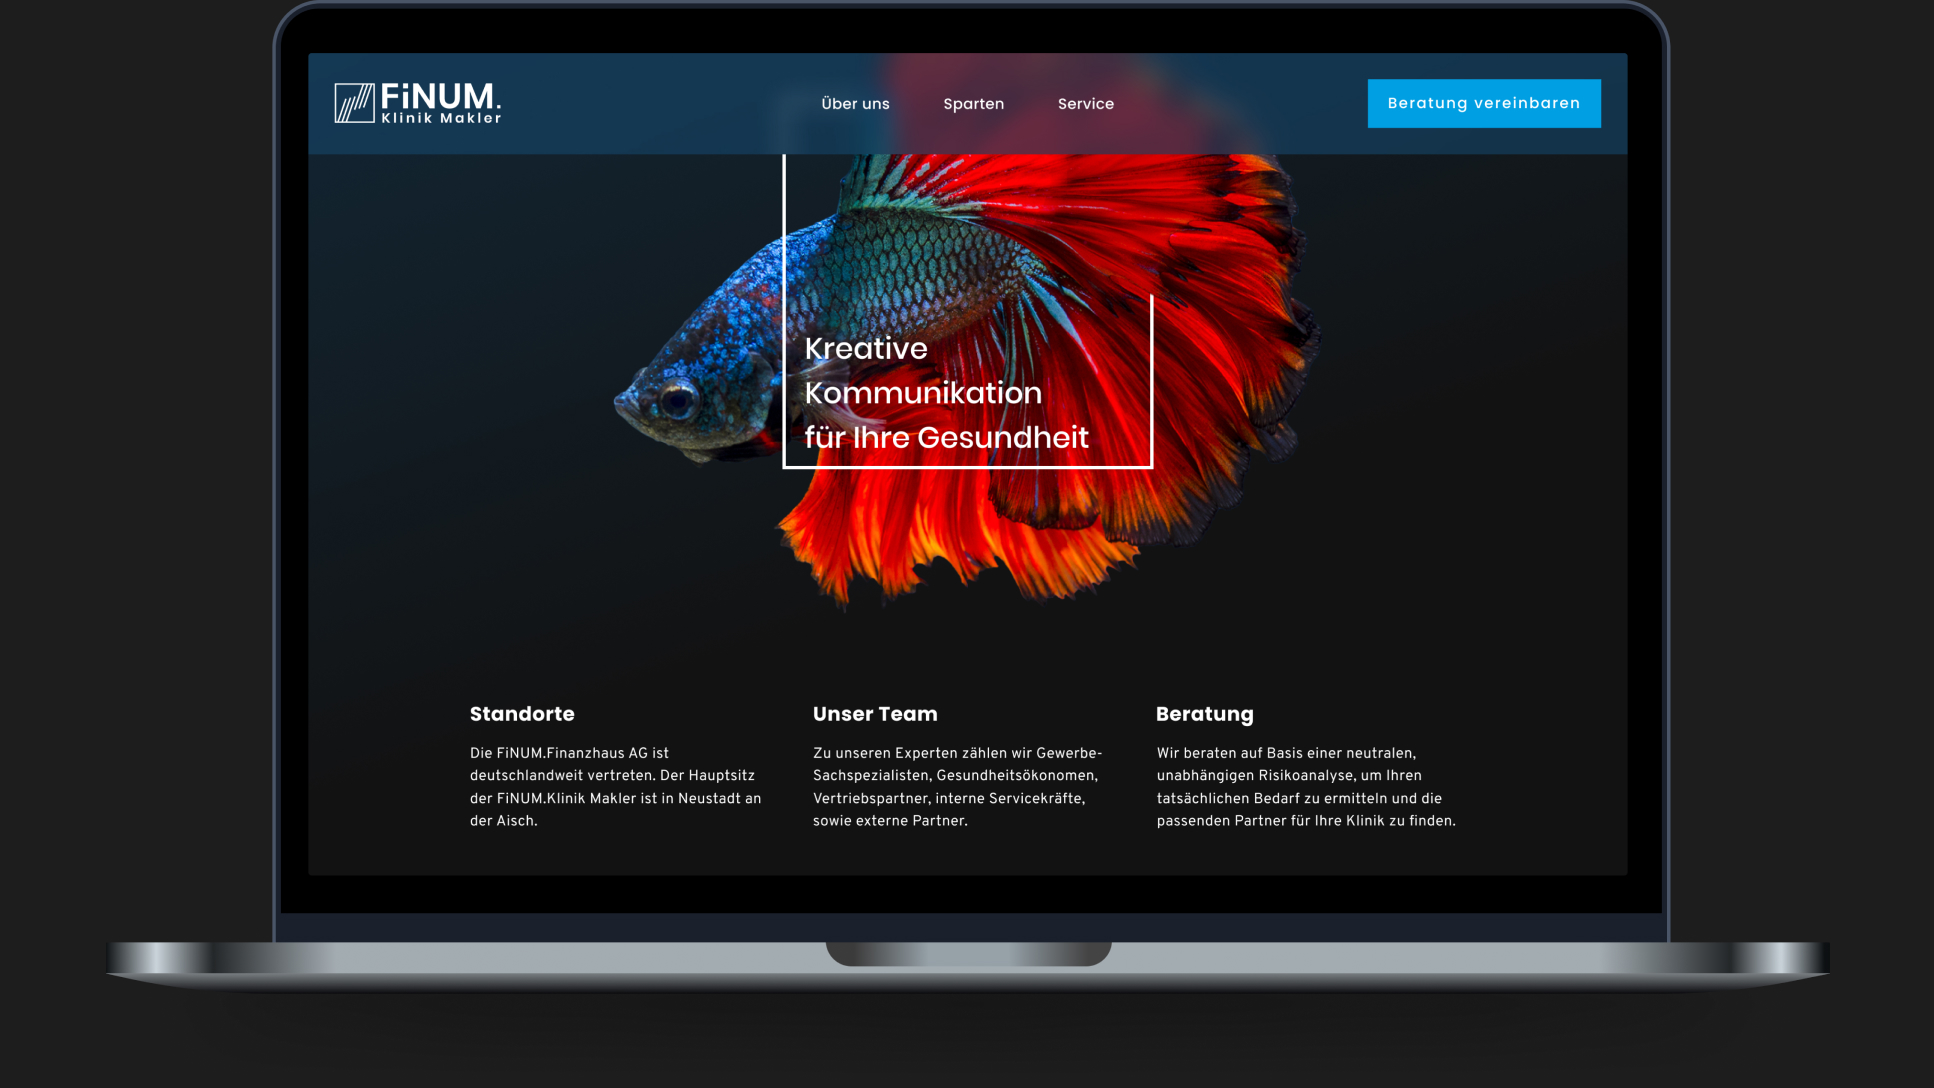
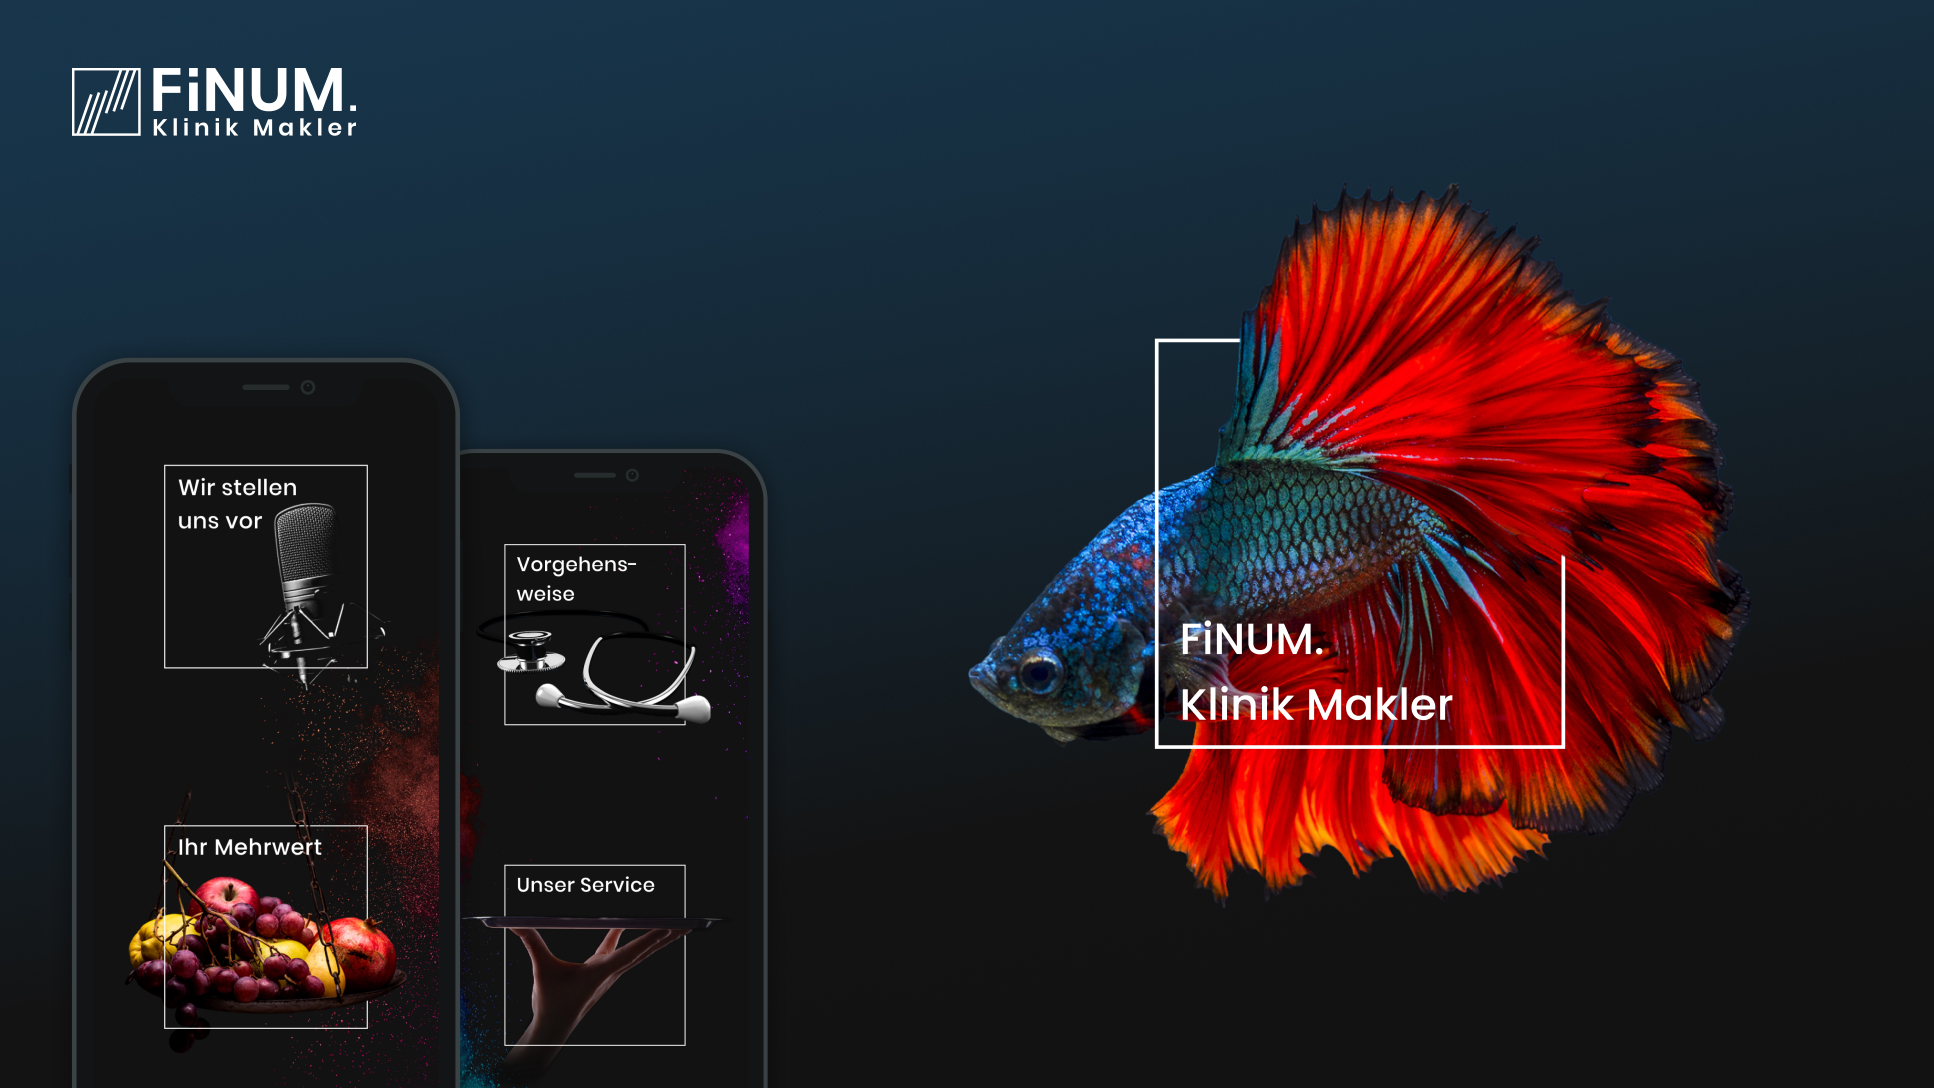
10.02.2021 Update

diff --git a/2about.html b/2about.html
@@ -7,40 +7,48 @@ permalink: /about/
 
 
 
-    <div class="post-thumbnail-container" style="margin-top: -120px;">
-        <img src="/assets/img/FotoKarstenKreh.png" class="post-thumbnail">
+    <div class="post-thumbnail-container">
+        <img src="/assets/img/FotoKarstenKreh.png" class="img-about">
     </div>
 
-    <h1 class="about-header">
-        Hi there,</h1>
-    <p>
-        my name is Karsten. <br>I am a UX-designer and communication design student from the beautiful city of Munich.
+    <h2>
+      Hi! My name is Karsten.
+    </h2>
+
+    <h1 class="about-header" style="margin-top: -2vw">
+        I love to create<br>
+        dope sh*t.
+    </h1>
+
+
+    <p class="post-content-text">
+        I am a UX-Designer and Communication Design student from the beautiful city of Munich in Germany.
+        <br>
+        <br>
+        As a very technically and scientifically interested designer, I help clients understand complex systems by visualizing large amounts of information.
+        <br>
+        I see my task in translating data into an everyday language and in making it beautiful so that it is easy to comprehend and fascinating to look at.
     </p>
 
 
-    <p>
-        As a very technically and scientifically interested designer, I help clients understand complex systems by visualizing large amounts of information. I see my task in translating data into an everyday language and in making it beautiful so that it is easy to comprehend and fascinating to look at.
-    </p>
-
-
-    <h2 class="post-content-text" style="margin-top: 22vw">
+    <h2 class="post-content-text" style="margin-bottom: 0">
         I'm especially good at:
     </h2>
 
     <p class="post-content-text">
-        - Web- & and Appdesign (UX/ UI in general)
-        <br>- Logodesign and Iconography
+            - Designing Complex Webapplications
         <br>- Dealing with large amounts of data
-        <br>- Applying a scientific method to my work
+        <br>- Logodesign and Iconography
+        <br>- Applying a very systematic and analytical approach
     </p>
 
 
-    <h2 class="post-content-text" style="margin-bottom: 0; margin-top: 0">
+    <h2 class="post-content-text" style="margin-bottom: 0">
         I work good with:
     </h2>
 
     <p class="post-content-text">
-        - IT- and Scienceguys
+            - Tech Companies
         <br>- FinTech and Financial Advisory
         <br>- Flexible and rapidly changing work environments
     </p>

diff --git a/_posts/2018-08-01-WechselGott.html b/_posts/2018-08-01-WechselGott.html
@@ -3,7 +3,7 @@ layout: post
 title: WechselGott
 slogan: Making contract management easier that ever bevore
 thumbnail: assets/img/IMG-Thumbnail-WechselGott.jpg
-img: assets/img/wechselgott-title-img.jpg
+img: assets/img/IMG-Title-WechselGott.jpg
 
 excerpt: <p class="excerpt-content">This German FinTech Start Up, has a special meaning for me, because I myself hold a stake in it. It was founded in Oktober 2018 by Werner Kräutlein, a friend of mine. Volksbank Mittweida and 2bAHEAD decided to fund WechselGott with venture capital. Since then it has grown rapidly.</p>
 ---
@@ -11,21 +11,15 @@ excerpt: <p class="excerpt-content">This German FinTech Start Up, has a special 
 
 <div class=".post-content">
 
-    <img class="post-content-img" src="/assets/img/WechselGott_Mockup_1.png">
-
     <p class="post-content-text">
         Let's be honest: We all hate to deal with our contracts and subscriptions. Insurance is a tiresome topic for most people and we put it off taking care of it for as long as possible - sometimes unfortunately too long. Many people are afraid of changing their electricity and gas provider, so they prefer to get their electricity from the basic provider for much higher prices. And we've all experienced it before, having missed the cancellation date for a subscription, so that we were allowed to pay for another year - for example, the gym subscription, which we've only used a solid five times anyway.
     </p>
-
-    <img class="post-content-img" src="/assets/img/WechselGott_Mockup_2.png">
 
     <p class="post-content-text">
         But all these tiresome issues can be handled completely automatically with today's technology.
         When WechselGott founder Werner Kräutlein told me about his idea for a fully automated contract manager, I was immediately hooked.
         WelchselGott was going to use artificial intelligence to recognize contracts from bank transactions and then automatically compare them and optimize them either at the touch of a button or using the autopilot function without any user intervention.
     </p>
-
-    <img class="post-content-img" src="/assets/img/WechselGott_Iconwork.png">
 
 </div>
 

diff --git a/_sass/style.scss b/_sass/style.scss
@@ -21,6 +21,8 @@ a {
     text-decoration: none;
 }
 
+
+
 .h0 {
   font-family: $primary-font;
   font-size: 10vw;
@@ -33,9 +35,10 @@ a {
 }
 
 
+
 h1 {
   font-family: $primary-font;
-  font-size: 5.8vw;
+  font-size: 5.5vw;
   font-weight: 800;
   font-stretch: normal;
   font-style: normal;
@@ -43,6 +46,7 @@ h1 {
   letter-spacing: normal;
   text-align: left;
 }
+
 
 
 h2 {
@@ -57,6 +61,7 @@ h2 {
 }
 
 
+
 h4 {
   font-family: $primary-font;
   font-size: 1.8vw;
@@ -67,6 +72,7 @@ h4 {
   letter-spacing: normal;
   text-align: left;
 }
+
 
 
 p {
@@ -88,6 +94,8 @@ body {
     color: $font-primary-color;
 }
 
+
+
 .wrapper {
     max-width: $wrapper-maxwidth;
     margin-right: auto;
@@ -95,12 +103,25 @@ body {
     }
 
 
+
 img {
-    width: calc(100% - 64px);
+    width: calc(100% - 8vw);
     border-radius: 8px;
     -webkit-filter: grayscale(100%);
     filter: grayscale(100%);
     transition: filter .4s ease-in-out;
+}
+
+
+
+.img-about{
+    max-width: 25vw;
+}
+
+
+
+.home-post-title {
+    margin-top: 2vw;
 }
 
 
@@ -158,7 +179,7 @@ ul {
 
 
     a {
-        font-size: 20px;
+        font-family: $primary-font;
         letter-spacing: 0.3em;
         height: 100%;
         align-items: center;
@@ -432,6 +453,7 @@ svg.svg-icon {
 
 
 .logo-img {
+    width: 6rem;
     max-width: 100%;
     border-radius: 0;
 }
@@ -489,10 +511,10 @@ svg.svg-icon {
 
 
 .p-name {
-  font-family: $secondary-font;
+  font-family: $primary-font;
   font-size: 1.8vw;
   margin-top: 256px;
-  font-weight: 200;
+  font-weight: 800;
 }
 
 
@@ -574,7 +596,7 @@ svg.svg-icon {
       transform: rotate(-90deg);
       position: absolute;
       margin: auto;
-      top: 21px;
+      top: 1.3vw;
       right: -9px;
       text-align: right;
       letter-spacing: 0.2em;

diff --git a/3contact.html b/3contact.html
@@ -13,7 +13,7 @@ permalink: /contact/
 
 
     <h2 style="padding-top: 80px">
-        Have got an interesting problem for me to solve? Let's have a cup of tea together.
+        Have got an interesting problem for me to solve? Let's have a cup of tea over it.
     </h2>
 
 
@@ -26,7 +26,7 @@ permalink: /contact/
 
             <fieldset class="user-valid valid contact-text-padding"   style= "margin: 100px 0 200px 0">
 
-                <h2  style= "margin-bottom: 0;">
+                <h2>
                     Your contact:
                 </h2>
 
@@ -43,7 +43,7 @@ permalink: /contact/
                 </label>
                 <br>
 
-                <h2  style= "margin-bottom: 0">
+                <h2  style= "margin-top: 6vw">
                     Your project:
                 </h2>
 

diff --git a/_posts/2021-02-01-Cometum.html b/_posts/2021-02-01-Cometum.html
@@ -2,8 +2,8 @@
 layout: post
 title: "Cometum"
 slogan: "Making the Illiquid Liquid"
-thumbnail: assets/img/IMG-Thumbnail-FiNUM.jpg
-img: assets/img/finum-km-title-img.jpg
+thumbnail: assets/img/IMG-Thumbnail-Cometum.jpg
+img: assets/img/IMG-Title-Cometum.jpg
 
 excerpt: <p class="excerpt-content">This is the qestion I was trying to solve during this Project</p>
 ---
@@ -13,6 +13,8 @@ excerpt: <p class="excerpt-content">This is the qestion I was trying to solve du
 
     <p class="post-content-text">
     </p>
+
+    <img src="/assets/img/IMG-Cometum1.jpg" alt="Cometum App Mockups">
 
 </div>
 

diff --git a/_includes/header.html b/_includes/header.html
@@ -18,7 +18,7 @@
         </label>
 
         <div class="trigger">
-            <a class="page-link" href="{{ '/' | relative_url }}">WORK</a>
+            <a class="page-link" href="{{ '/' | relative_url }}">PORTFOLIO</a>
           {%- for path in page_paths -%}
             {%- assign my_page = site.pages | where: "path", path | first -%}
             {%- if my_page.title and my_page.header -%}

diff --git a/_posts/2020-10-01-FiNUM-Klinik-Makler.html b/_posts/2020-10-01-FiNUM-Klinik-Makler.html
@@ -3,7 +3,7 @@ layout: post
 title: "FiNUM.Klinik Makler"
 slogan: "High-quality web design for a sophisticated financial advisory firm"
 thumbnail: assets/img/IMG-Thumbnail-FiNUM.jpg
-img: assets/img/finum-km-title-img.jpg
+img: assets/img/IMG-Title-FiNUM.jpg
 
 excerpt: <p class="excerpt-content">How can an original and unique web presence succeed in a very traditional sector?</p>
 ---

diff --git a/_posts/2020-07-01-PSD-TarifWechsel.html b/_posts/2020-07-01-PSD-TarifWechsel.html
@@ -5,7 +5,7 @@ slogan: Lorem Ipsum Lorem Ipsum
 thumbnail: assets/img/IMG-Thumbnail-PSD.jpg
 img: assets/img/IMG-Title-PSD.jpg
 
-excerpt: <p class="excerpt-content">Lorem Ipsum Lorem Ipsum</p>
+excerpt: <p class="excerpt-content">How to whitelabel an app with the click of a button?</p>
 ---
 
 

diff --git a/_posts/2020-08-01-BIZERBA-Financial-Services.html b/_posts/2020-08-01-BIZERBA-Financial-Services.html
@@ -2,7 +2,7 @@
 layout: post
 title: "BIZERBA Financial Services"
 slogan: "Using instead of buying"
-thumbnail: assets/img/IMG-Thumbnail-FiNUM.jpg
+thumbnail: assets/img/IMG-Thumbnail-BIZERBA.jpg
 img: assets/img/IMG-Title-BIZERBA.jpg
 
 excerpt: <p class="excerpt-content">Lorem Ipsum?</p>
